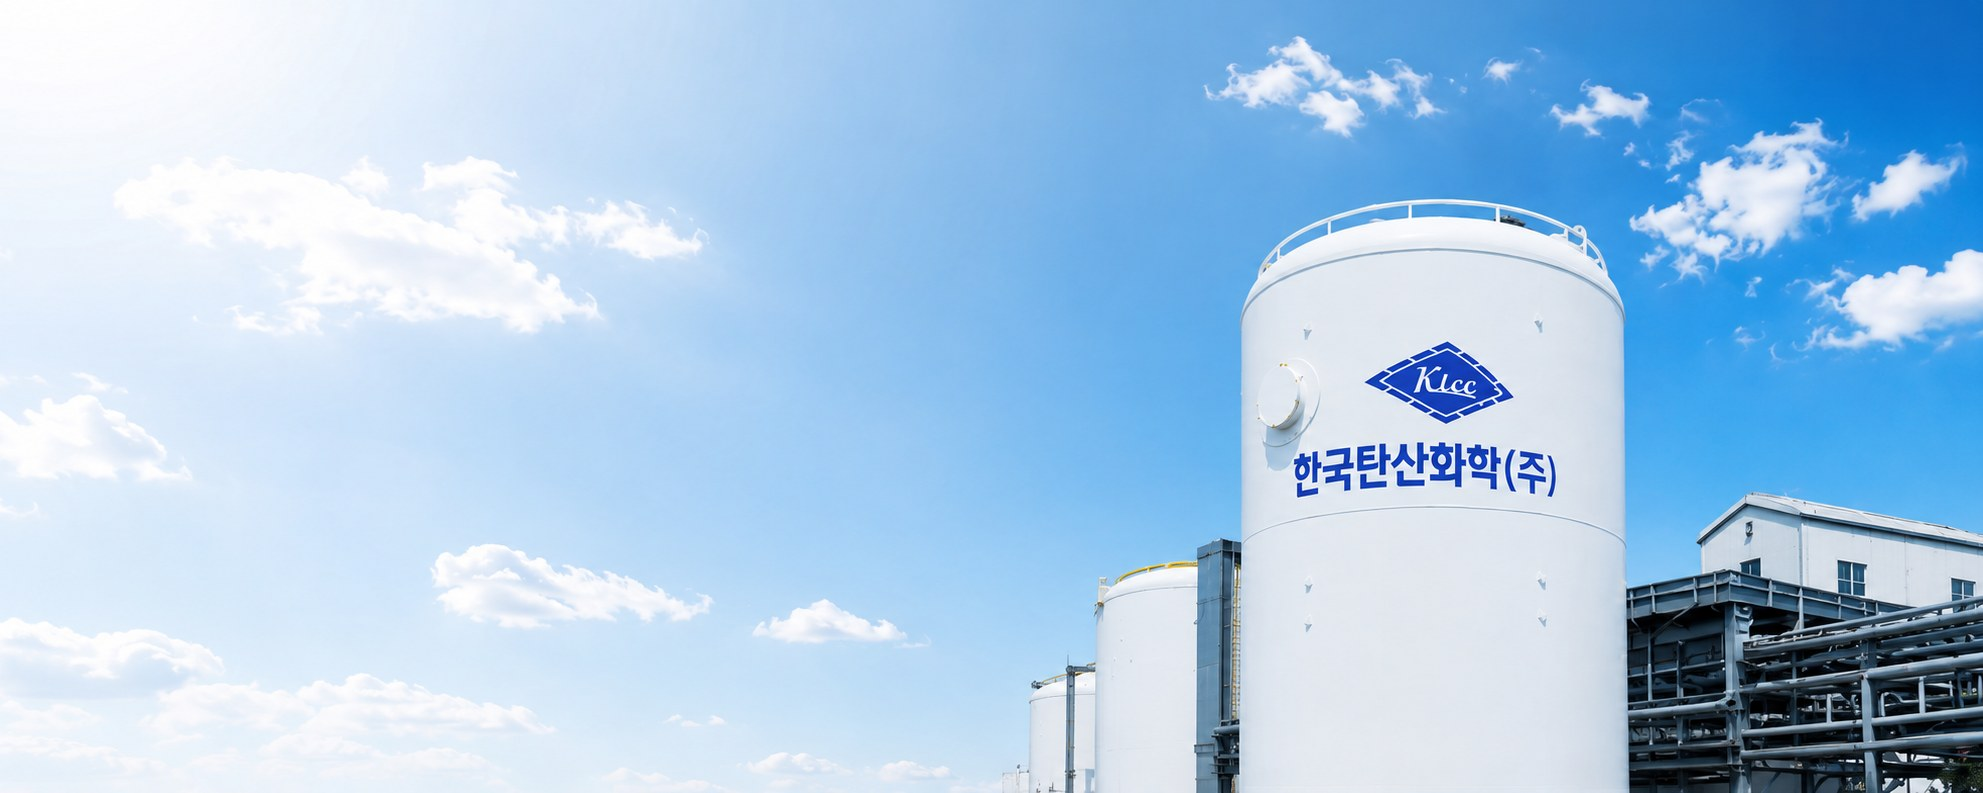
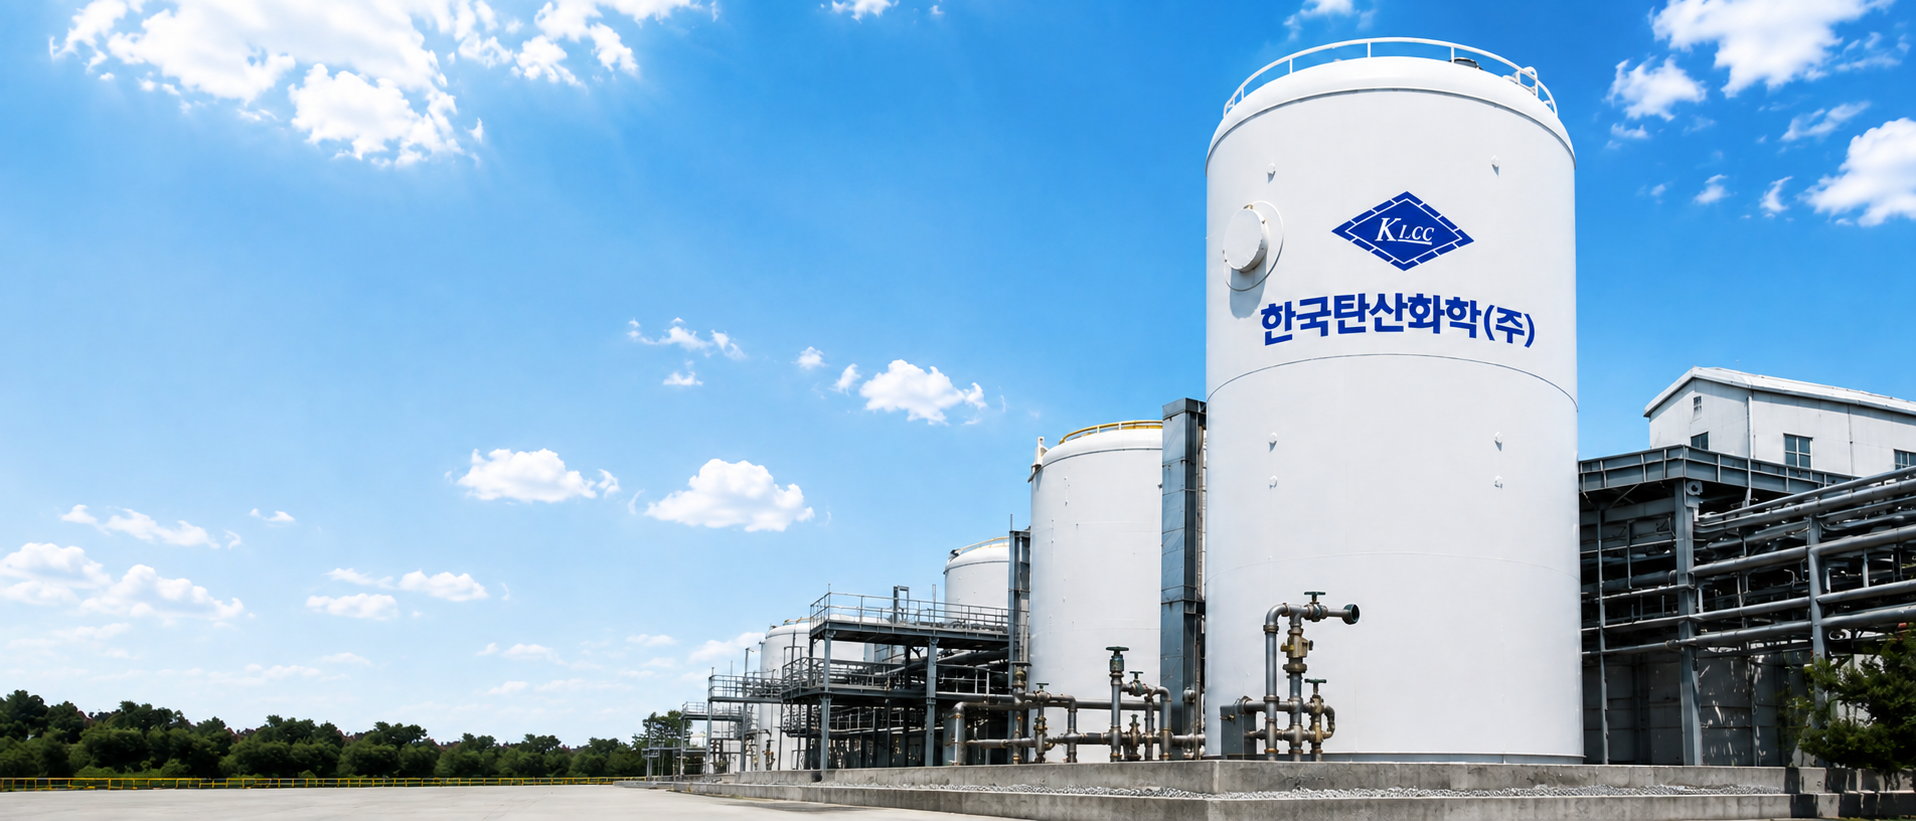
메인 히어로: 사진1을 새 KLCC 탱크 플랜트 이미지(1916x821)로 교체(?v=20260801-2) + 히어로 aspect-ratio를 새 이미지 비율(1916/821≈2.33:1)로 갱신해 전체 노출. style.css ?v=20260731-29

diff --git a/index.html b/index.html
@@ -7,7 +7,7 @@
   <meta name="description" content="한국탄산화학㈜(KLCC)는 산소·질소·아르곤·탄산·수소 등 산업용·의료용 가스와 드라이아이스를 제조·공급하는 전문기업입니다.">
   <link rel="stylesheet" href="assets/css/reset.css">
   <link rel="stylesheet" href="assets/css/variables.css?v=20260801">
-  <link rel="stylesheet" href="assets/css/style.css?v=20260731-28">
+  <link rel="stylesheet" href="assets/css/style.css?v=20260731-29">
 </head>
 <body>
 
@@ -83,7 +83,7 @@
     <!-- ===== 히어로 (실사진 배경) ===== -->
     <section class="hero">
       <div class="hero__slides" aria-hidden="true">
-        <div class="hero__slide is-active" style="background-image:url('assets/images/site/hero-main.jpg?v=20260801')"></div>
+        <div class="hero__slide is-active" style="background-image:url('assets/images/site/hero-main.jpg?v=20260801-2')"></div>
         <div class="hero__slide" style="background-image:url('assets/images/site/hero-molecules.jpg?v=20260703')"></div>
       </div>
       <div class="container">

diff --git a/company-overview.html b/company-overview.html
@@ -7,7 +7,7 @@
   <meta name="description" content="한국탄산화학㈜ 회사 개요와 조직도 — 상호·설립·사업분야·생산제품 및 조직 구성.">
   <link rel="stylesheet" href="assets/css/reset.css">
   <link rel="stylesheet" href="assets/css/variables.css?v=20260801">
-  <link rel="stylesheet" href="assets/css/style.css?v=20260731-28">
+  <link rel="stylesheet" href="assets/css/style.css?v=20260731-29">
   <!-- 대표이사 서명용 손글씨 폰트 (한글: Nanum Pen Script, 일어: Yomogi) -->
   <link rel="preconnect" href="https://fonts.googleapis.com">
   <link rel="preconnect" href="https://fonts.gstatic.com" crossorigin>

diff --git a/company-network.html b/company-network.html
@@ -7,7 +7,7 @@
   <meta name="description" content="한국탄산화학㈜ 계열사와 오시는 길 — 관계사 네트워크 및 사업장 위치·연락처.">
   <link rel="stylesheet" href="assets/css/reset.css">
   <link rel="stylesheet" href="assets/css/variables.css?v=20260801">
-  <link rel="stylesheet" href="assets/css/style.css?v=20260731-28">
+  <link rel="stylesheet" href="assets/css/style.css?v=20260731-29">
   <!-- 대표이사 서명용 손글씨 폰트 (한글: Nanum Pen Script, 일어: Yomogi) -->
   <link rel="preconnect" href="https://fonts.googleapis.com">
   <link rel="preconnect" href="https://fonts.gstatic.com" crossorigin>

diff --git a/company.html b/company.html
@@ -7,7 +7,7 @@
   <meta name="description" content="한국탄산화학㈜ 회사소개 — CEO 인사말, 연혁, 꾸준한 성장.">
   <link rel="stylesheet" href="assets/css/reset.css">
   <link rel="stylesheet" href="assets/css/variables.css?v=20260801">
-  <link rel="stylesheet" href="assets/css/style.css?v=20260731-28">
+  <link rel="stylesheet" href="assets/css/style.css?v=20260731-29">
   <!-- 대표이사 서명용 손글씨 폰트 (한글: Nanum Pen Script, 일어: Yomogi) -->
   <link rel="preconnect" href="https://fonts.googleapis.com">
   <link rel="preconnect" href="https://fonts.gstatic.com" crossorigin>

diff --git a/assets/css/style.css b/assets/css/style.css
@@ -162,8 +162,8 @@ section[id] { scroll-margin-top: 88px; }
 .hero {
   position: relative; color: var(--hero-text); overflow: hidden;
   display: flex; align-items: center;
-  /* 배경 이미지(약 2.5:1)가 잘리지 않고 전부 보이도록 히어로 높이를 이미지 비율에 맞춤 */
-  aspect-ratio: 1983 / 793; min-height: 480px;
+  /* 배경 이미지(약 2.33:1)가 잘리지 않고 전부 보이도록 히어로 높이를 이미지 비율에 맞춤 */
+  aspect-ratio: 1916 / 821; min-height: 480px;
   padding-block: clamp(24px, 4vw, 48px);
 }
 .hero > .container { width: 100%; }

diff --git a/products-gas.html b/products-gas.html
@@ -7,7 +7,7 @@
   <meta name="description" content="산업용·의료용·혼합·특수·액화석유가스 — 고순도 산소·질소·아르곤·수소·헬륨·탄산·LPG를 Bulk·실린더로 공급·제조합니다.">
   <link rel="stylesheet" href="assets/css/reset.css">
   <link rel="stylesheet" href="assets/css/variables.css?v=20260801">
-  <link rel="stylesheet" href="assets/css/style.css?v=20260731-28">
+  <link rel="stylesheet" href="assets/css/style.css?v=20260731-29">
 </head>
 <body>
 

diff --git a/products-supply.html b/products-supply.html
@@ -7,7 +7,7 @@
   <meta name="description" content="고압가스 용기의 안전을 위한 자체 고압용기 검사장 운영 — 정기 재검사와 고압가스 안전관리 기준 준수.">
   <link rel="stylesheet" href="assets/css/reset.css">
   <link rel="stylesheet" href="assets/css/variables.css?v=20260801">
-  <link rel="stylesheet" href="assets/css/style.css?v=20260731-28">
+  <link rel="stylesheet" href="assets/css/style.css?v=20260731-29">
 </head>
 <body>
 

diff --git a/products-ice.html b/products-ice.html
@@ -7,7 +7,7 @@
   <meta name="description" content="드라이아이스 너겟·블록 생산설비 日産 150톤. 신선식품 택배 보냉용 필수재와 시장 전망을 소개합니다.">
   <link rel="stylesheet" href="assets/css/reset.css">
   <link rel="stylesheet" href="assets/css/variables.css?v=20260801">
-  <link rel="stylesheet" href="assets/css/style.css?v=20260731-28">
+  <link rel="stylesheet" href="assets/css/style.css?v=20260731-29">
 </head>
 <body>
 

diff --git a/products-construction.html b/products-construction.html
@@ -7,7 +7,7 @@
   <meta name="description" content="가스 저장탱크 설치부터 배관·공급설비 시공, 안전관리·검사까지 일괄 수행합니다.">
   <link rel="stylesheet" href="assets/css/reset.css">
   <link rel="stylesheet" href="assets/css/variables.css?v=20260801">
-  <link rel="stylesheet" href="assets/css/style.css?v=20260731-28">
+  <link rel="stylesheet" href="assets/css/style.css?v=20260731-29">
 </head>
 <body>
 

diff --git a/quality.html b/quality.html
@@ -7,7 +7,7 @@
   <meta name="description" content="고순도 제조 역량, 식품첨가물 탄산가스 품질, 용기검사장, Gas Service Team.">
   <link rel="stylesheet" href="assets/css/reset.css">
   <link rel="stylesheet" href="assets/css/variables.css?v=20260801">
-  <link rel="stylesheet" href="assets/css/style.css?v=20260731-28">
+  <link rel="stylesheet" href="assets/css/style.css?v=20260731-29">
 </head>
 <body>
 

diff --git a/support.html b/support.html
@@ -7,7 +7,7 @@
   <meta name="description" content="한국탄산화학 고객지원 — 사업장 연락처, 자주 묻는 질문.">
   <link rel="stylesheet" href="assets/css/reset.css">
   <link rel="stylesheet" href="assets/css/variables.css?v=20260801">
-  <link rel="stylesheet" href="assets/css/style.css?v=20260731-28">
+  <link rel="stylesheet" href="assets/css/style.css?v=20260731-29">
 </head>
 <body>
 
